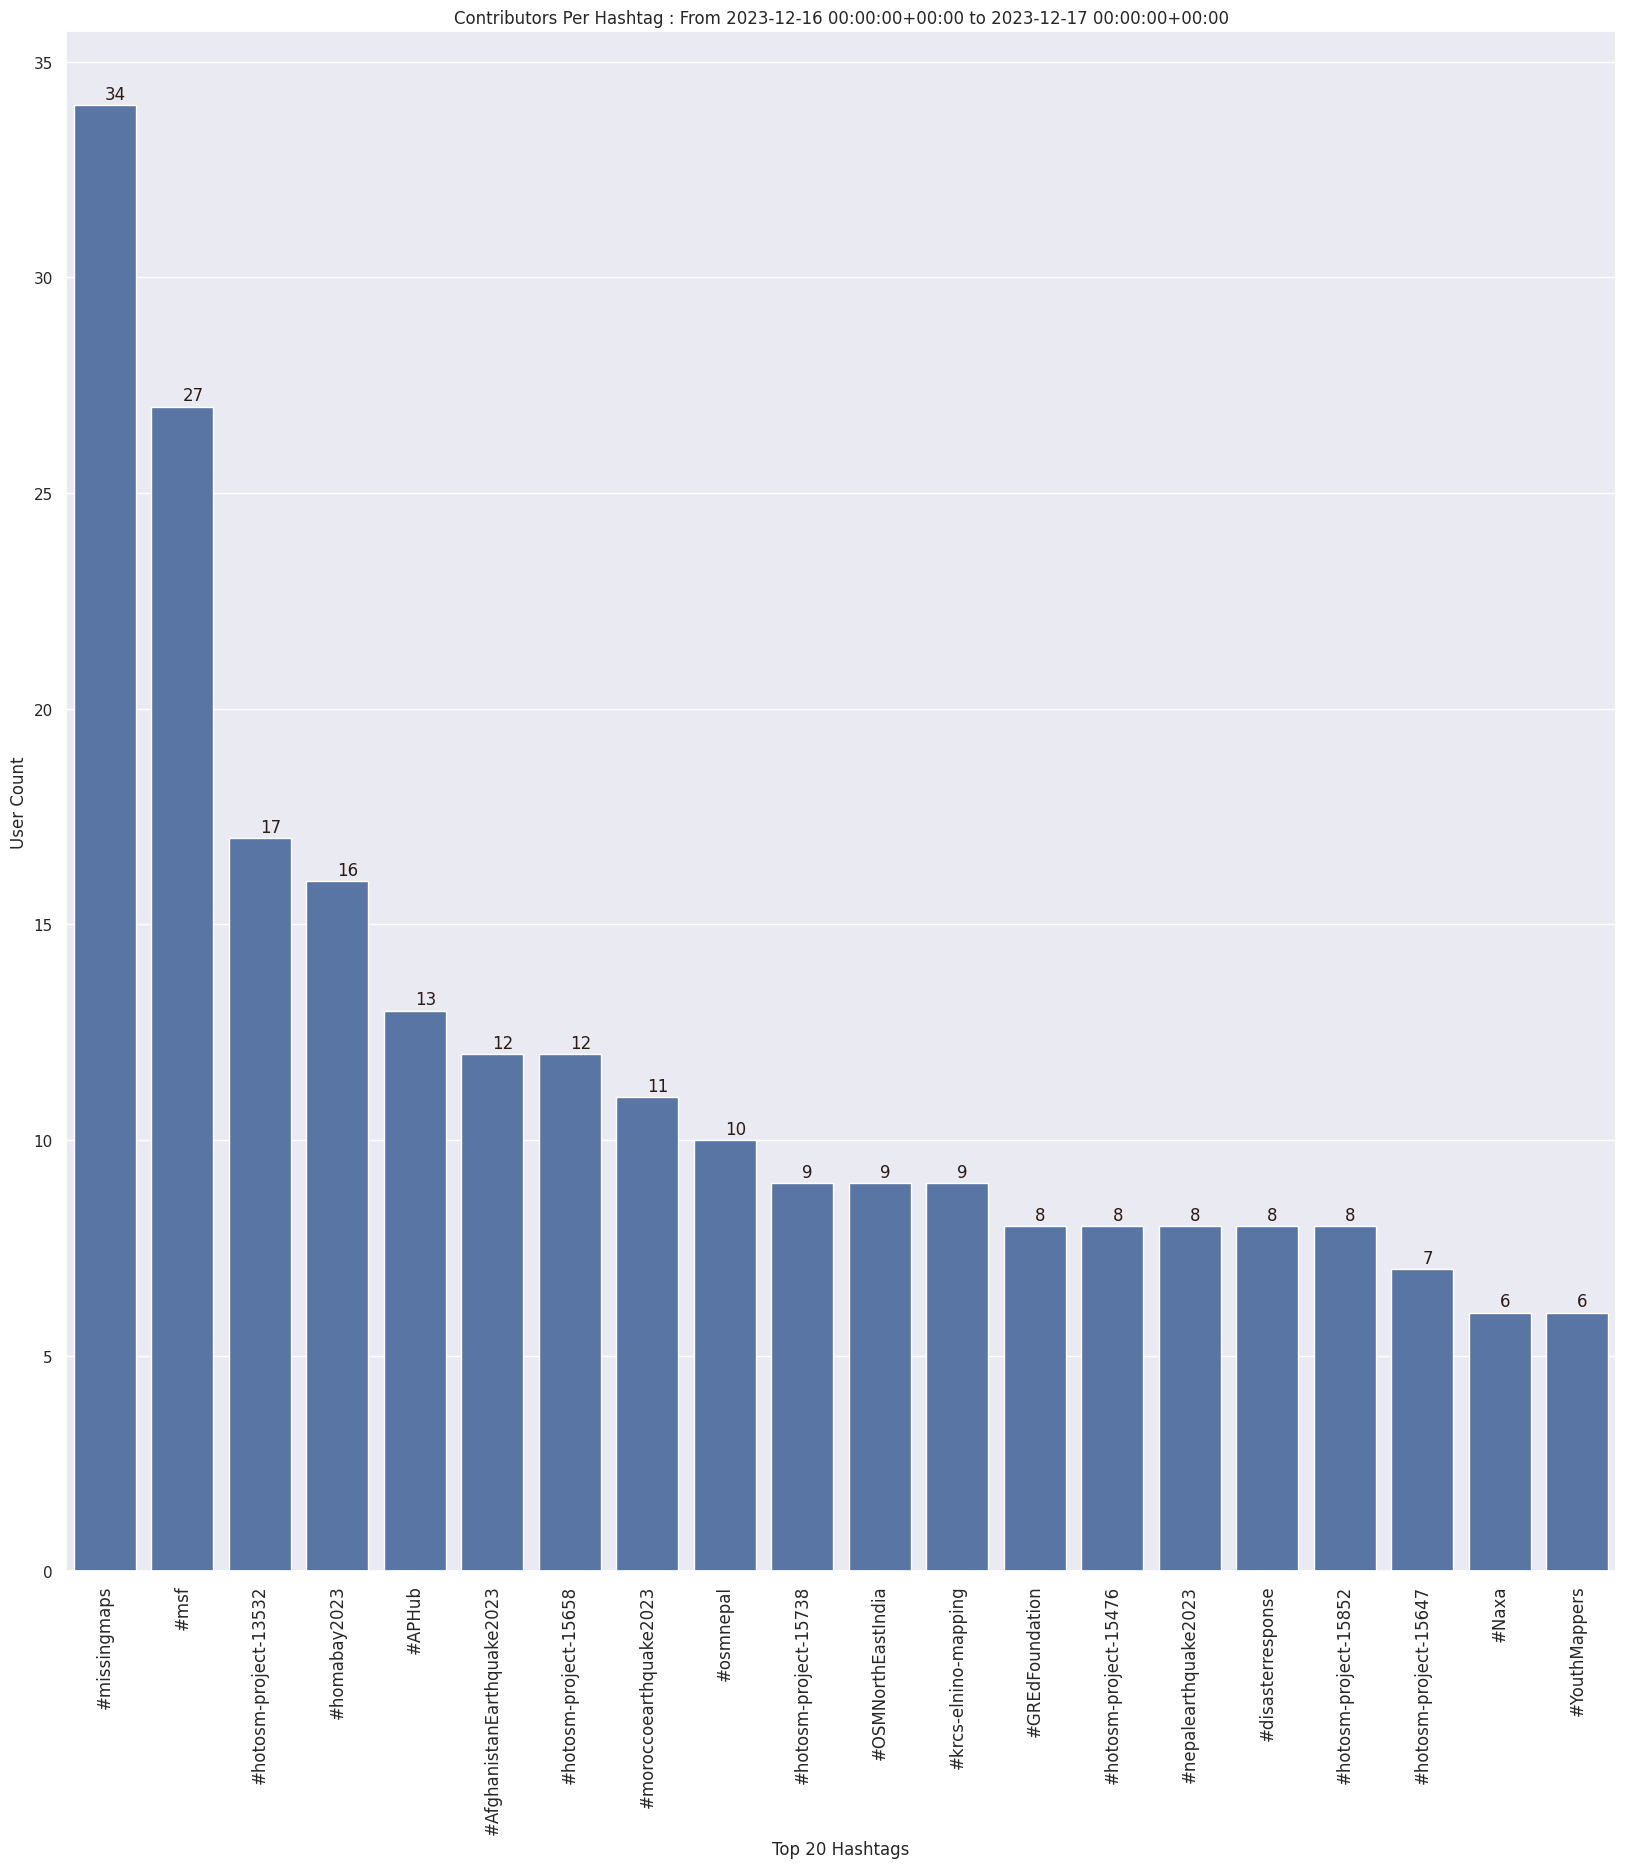
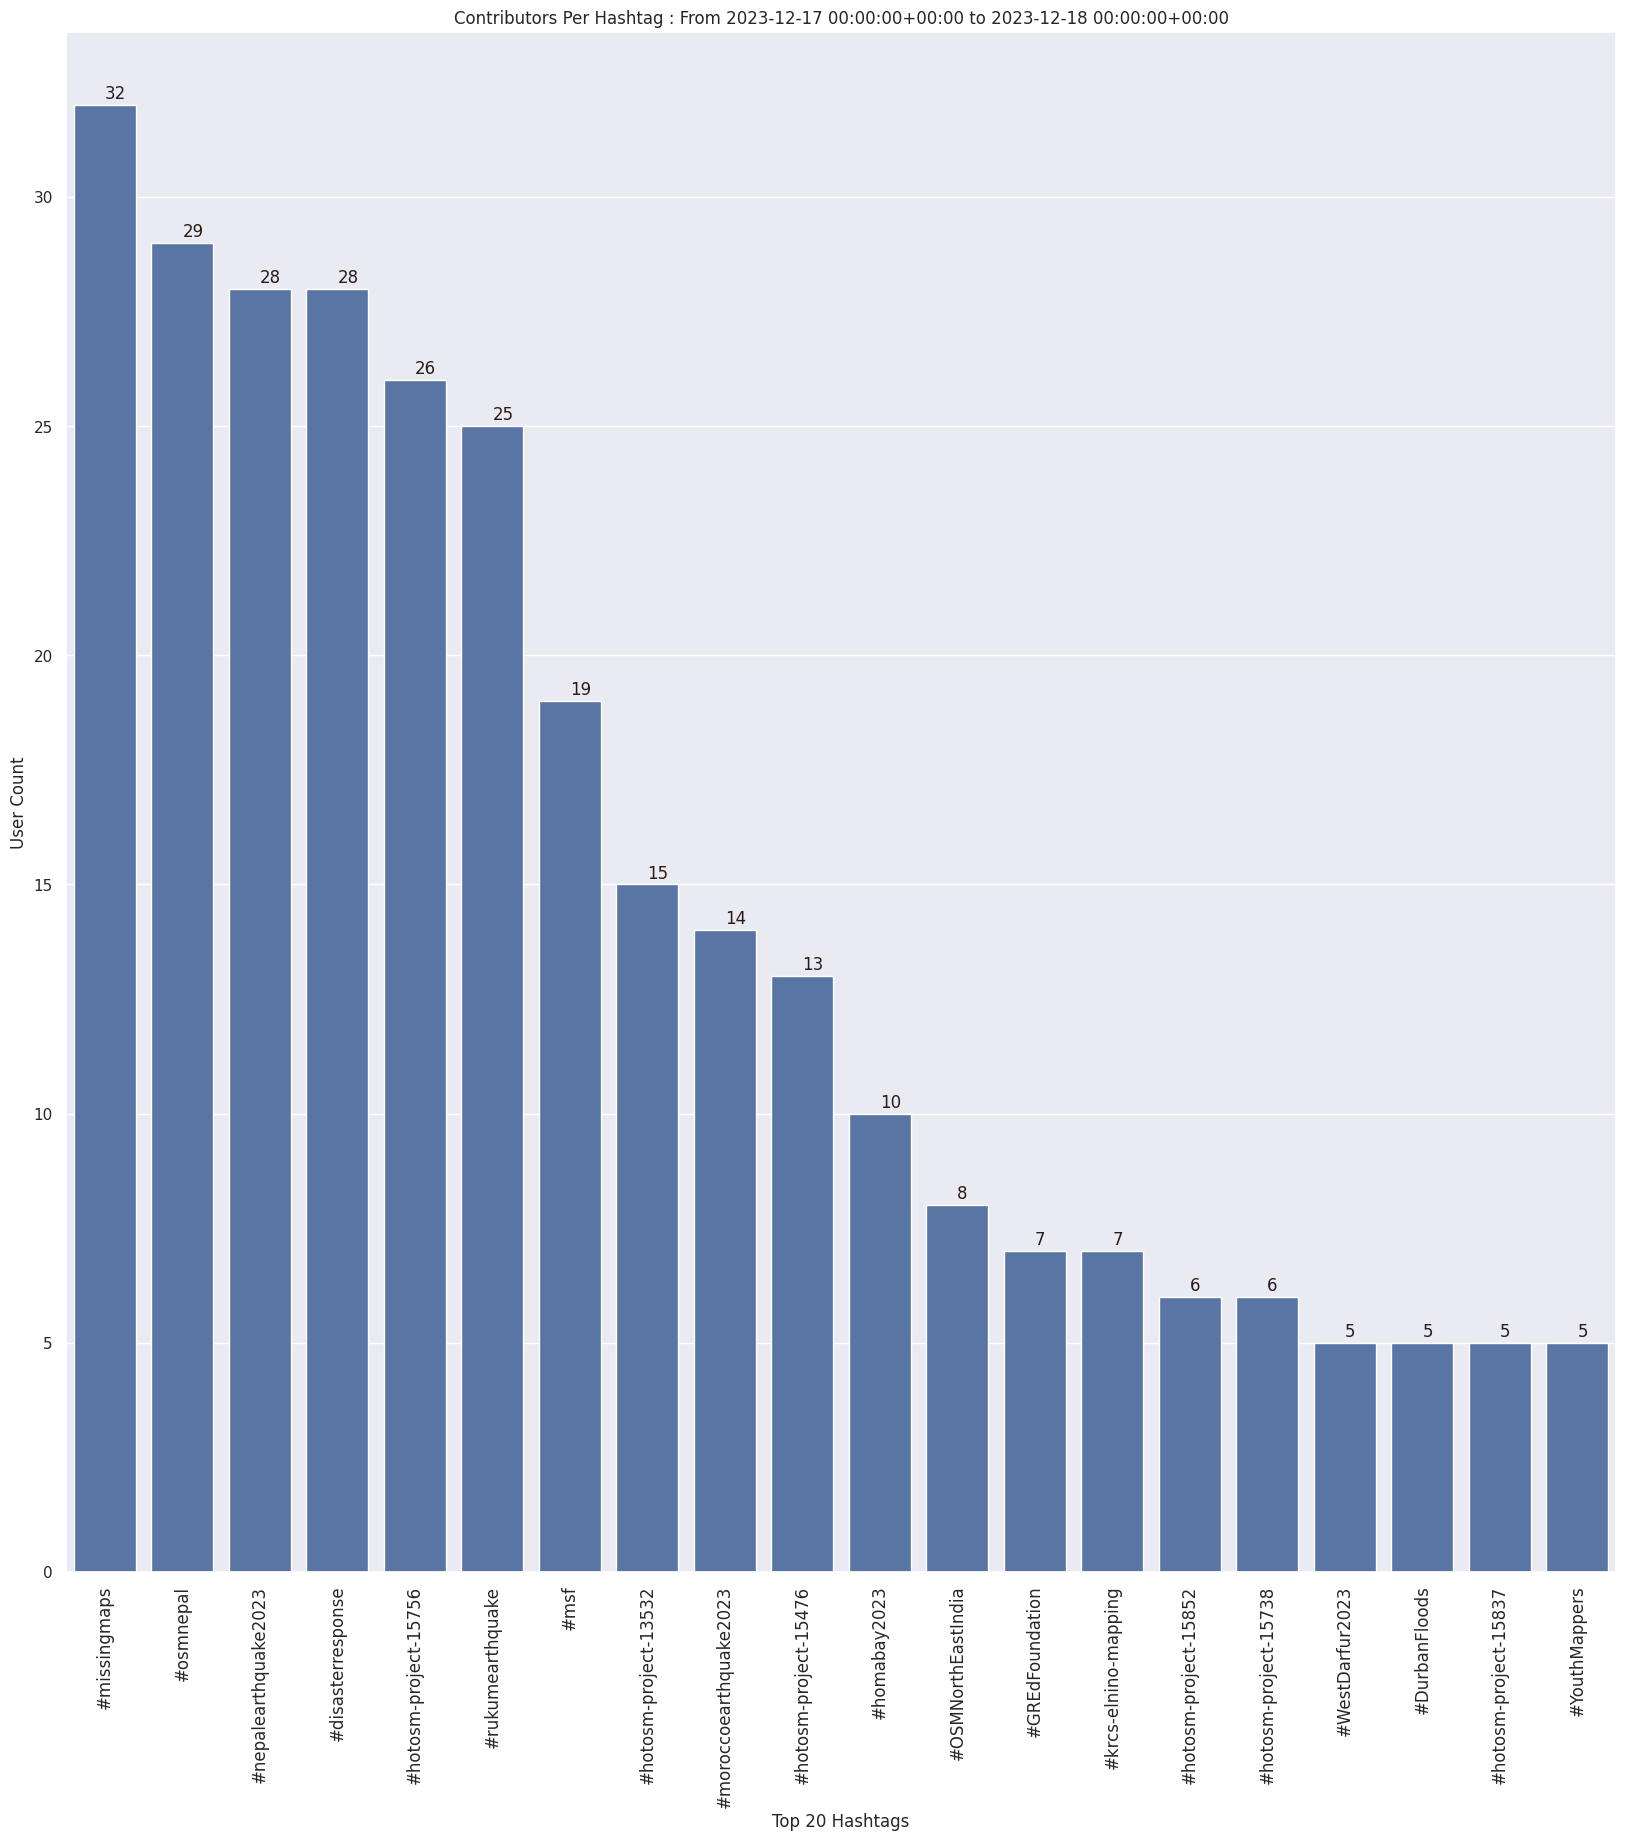
Updated Daily hotosm stats

diff --git a/stats/hotosm/Daily/Readme.md b/stats/hotosm/Daily/Readme.md
@@ -1,63 +1,63 @@
-### Last Update : Stats from 2023-12-16 00:00:00+00:00 to 2023-12-17 00:00:00+00:00 (UTC Timezone)
+### Last Update : Stats from 2023-12-17 00:00:00+00:00 to 2023-12-18 00:00:00+00:00 (UTC Timezone)
 
-#### 148 Users made 1.2 thousand changesets with 160.3 thousand map changes.
-#### 105.5 thousand OSM Elements were Created, 42.8 thousand Modified & 12.0 thousand Deleted.
+#### 155 Users made 1.1 thousand changesets with 172.0 thousand map changes.
+#### 79.8 thousand OSM Elements were Created, 64.2 thousand Modified & 27.9 thousand Deleted.
 Get Full Stats at [stats.csv](/stats/hotosm/Daily/stats.csv)
  & Get Summary Stats at [stats_summary.csv](/stats/hotosm/Daily/stats_summary.csv)
 
 Top 5 Users are : 
-- Libor Bednarik : 11.5 thousand Map Changes
-- Norbert Dichter : 8.5 thousand Map Changes
-- Frans S : 8.4 thousand Map Changes
-- Marvin de Hont : 7.2 thousand Map Changes
-- anthaas : 5.8 thousand Map Changes
+- koos krijnders : 22.2 thousand Map Changes
+- KingVik : 12.9 thousand Map Changes
+- mepng : 10.4 thousand Map Changes
+- Jorieke V : 7.8 thousand Map Changes
+- Kathyaus : 5.4 thousand Map Changes
 
 Summary of Supplied Tags
-- poi = Created: 156, Modified : 42
-- building = Created: 14.7 thousand, Modified : 1.1 thousand
-- highway = Created: 364, Modified : 1.3 thousand
-- waterway = Created: 26, Modified : 46
-- amenity = Created: 9, Modified : 1
+- poi = Created: 85, Modified : 25
+- building = Created: 11.2 thousand, Modified : 914
+- highway = Created: 433, Modified : 563
+- waterway = Created: 16, Modified : 50
+- amenity = Created: 8, Modified : 11
 
 
 Top 5 Created tags are :
-- building: 14.7 thousand
-- highway: 364
-- natural: 240
-- landuse: 173
-- source: 75
+- building: 11.2 thousand
+- highway: 433
+- landuse: 326
+- natural: 106
+- type: 50
 
 
 Top 5 Modified tags are :
-- highway: 1.3 thousand
-- building: 1.1 thousand
-- surface: 655
-- landuse: 131
-- source: 93
+- building: 914
+- highway: 563
+- landuse: 157
+- surface: 156
+- source: 127
 
 
 Top 5 trending hashtags are:
-- #missingmaps : 34 users
-- #msf : 27 users
-- #hotosm-project-13532 : 17 users
-- #homabay2023 : 16 users
-- #APHub : 13 users
+- #missingmaps : 32 users
+- #osmnepal : 29 users
+- #disasterresponse : 28 users
+- #nepalearthquake2023 : 28 users
+- #hotosm-project-15756 : 26 users
 
 
 Top 5 trending editors are:
-- iD 2.21.1 : 83 users
+- iD 2.21.1 : 99 users
+- JOSM/1.5 (18822 en) : 13 users
 - JOSM/1.5 (18907 en) : 12 users
-- JOSM/1.5 (18822 en) : 11 users
-- JOSM/1.5 (18907 nl) : 4 users
-- JOSM/1.5 (18822 es) : 3 users
+- JOSM/1.5 (18907 en_GB) : 4 users
+- JOSM/1.5 (18822 en_GB) : 3 users
 
 
 Top 5 trending Countries where user contributed are:
-- Kenya : 51 users
-- Nepal : 14 users
-- Afghanistan : 12 users
+- Kenya : 35 users
+- Nepal : 32 users
+- Morocco : 13 users
 - India : 11 users
-- Morocco : 10 users
+- United Republic of Tanzania : 9 users
 
 
  Charts : 
